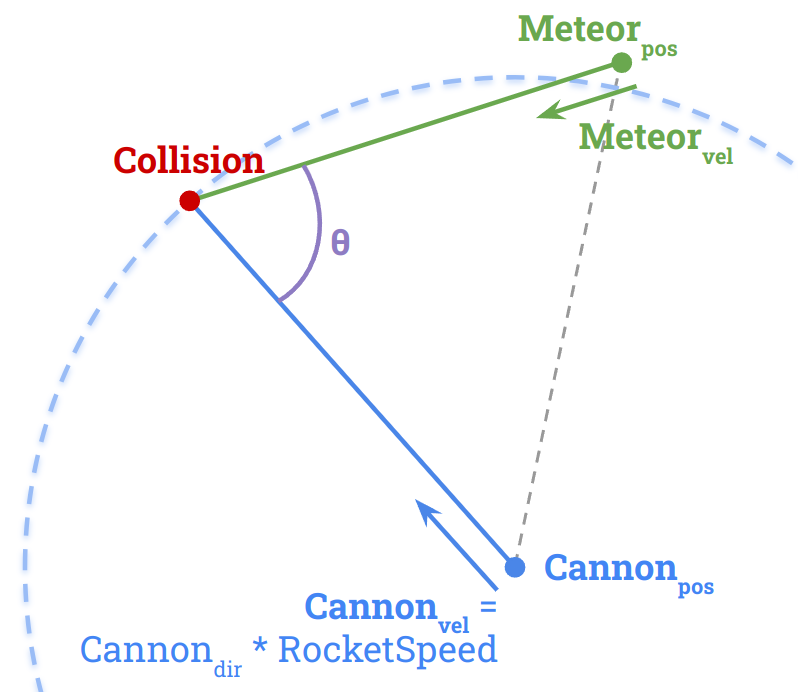
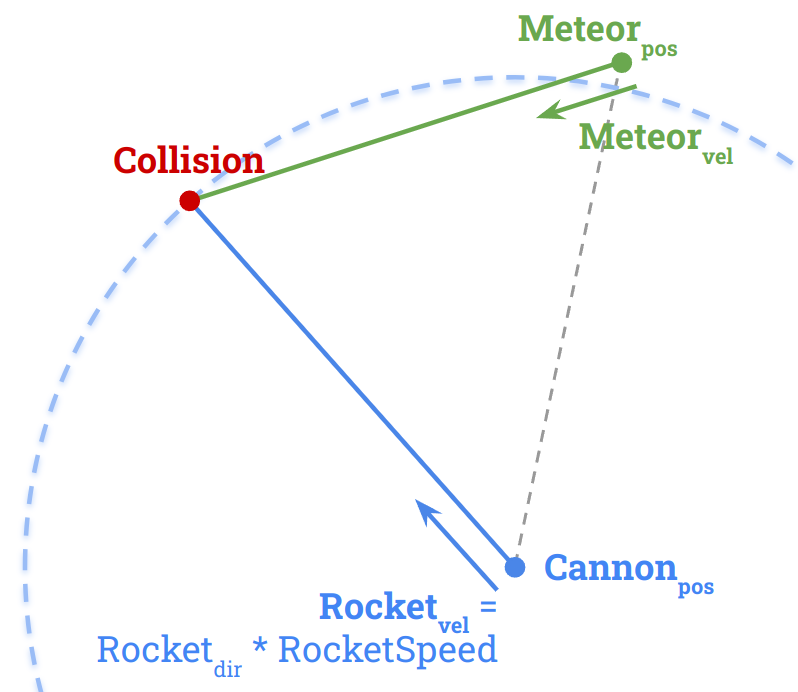
README: math derivation of aim_ahead

diff --git a/README.md b/README.md
@@ -1,8 +1,5 @@
 # Blitz 2024 Registration - /dev/null
 
-TODOs:
-- [ ] TODOs in the readme
-
 It is a little bit of a tradition now to put _just a smidge_ of overkill for the
 [Coveo Blitz](https://2024.blitz.codes/) registration challenge:
 - In 2023, we were solving the Traveling Salesperson Problem with
@@ -117,6 +114,10 @@ position being `meteor_pos + t * meteor_velocity`, for an unknown `t`. Visually:
 
 ![Diagram with the concepts visualized](readme_media/DiagramAimAhead.png)
 
+Above, `Rocket_dir` and the `Collision` point are unknowns. However,
+we can put everything in terms of a single unknown variable collision time `t`
+and solve for it.
+
 From there we can derive the `a`, `b`, `c` to plug in our
 [quadratic formula](https://en.wikipedia.org/wiki/Quadratic_formula):
 
@@ -124,7 +125,50 @@ From there we can derive the `a`, `b`, `c` to plug in our
   <summary>Math derivation</summary>
 
   ```
-  TODO(emond): math derivation
+  We know: Meteor_pos, Meteor_vel, Cannon_pos, RocketSpeed
+  Unknown: Rocket_dir, Collision, t
+  
+  We are looking for the time 't' where:
+    Meteor_pos + t * Meteor_vel = Cannon_pos + t * Rocket_vel
+  In other words, when the two will collide.
+
+  We can rewrite this as:
+    Meteor_pos + t * Meteor_vel - Cannon_pos = t * Rocket_vel
+  Or if we look at distances (to ignore the unknown Rocket_dir):
+    ||Meteor_pos + t * Meteor_vel - Cannon_pos|| = t * RocketSpeed
+
+  To make this easier to work with, let's assign some shorter variable names for
+  each:
+    R_pos: Cannon_pos
+    R_s: RocketSpeed
+    M_pos: Meteor_pos
+    M_vel: Meteor_vel
+    D: Delta_pos, i.e. (Meteor_pos - Cannon_pos)
+
+  So we'd have:
+    ||M_pos + t * M_vel - R_pos|| = t * R_s
+
+  Or, using 'D':
+    ||D + t * M_vel|| = t * R_s
+
+  We can square both sides and express vectors in terms of x and y components:
+    (D_x+ t*M_vel_x)^2 + (D_y + t*M_vel_y)^2 = t^2 * RocketSpeed^2
+
+  We can do some algebra to expand it:
+    (D_x^2 + 2*t*M_vel_x*D_x + t^2 * M_vel_x^2)
+    + (D_y^2 + 2*t*M_vel_y*D_y + t^2 * M_vel_y^2)
+    = t^2 * RocketSpeed^2
+
+  Grouping up terms, moving the right side to the left:
+    t^2 * (M_vel_x^2 + M_vel_y^2 - RocketSpeed^2)
+    + t * (2 * (M_vel_x*D_x + M_vel_y*D_y))
+    + (D_x^2 + D_y^2)
+    = 0
+  
+  And we have a quadratic formula!
+
+  We can rephrase some of those operations in vectoro operations:
+    (M_vel.dot(M_vel) - RocketSpeed^2) * t^2 + (2 * M_vel.dot(D)) * t + D.dot(D) = 0
   ```
 </details>
 
